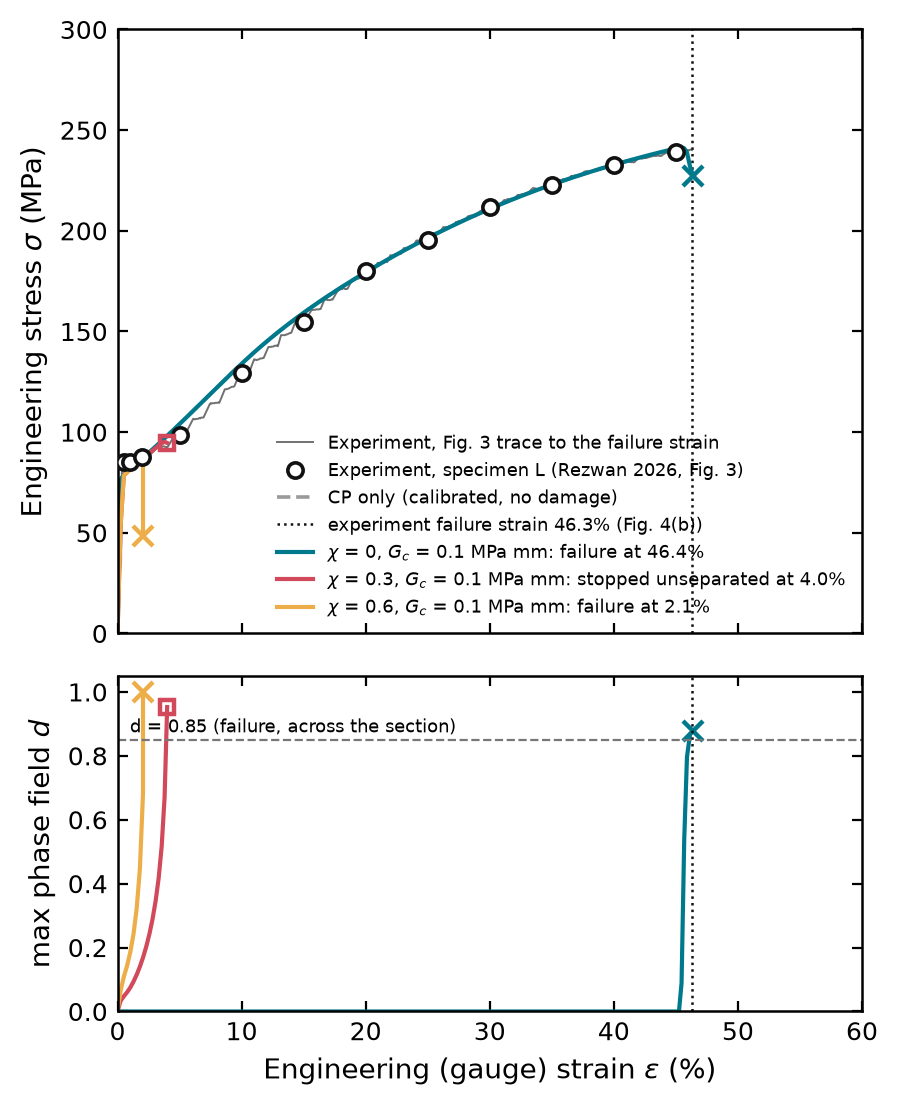
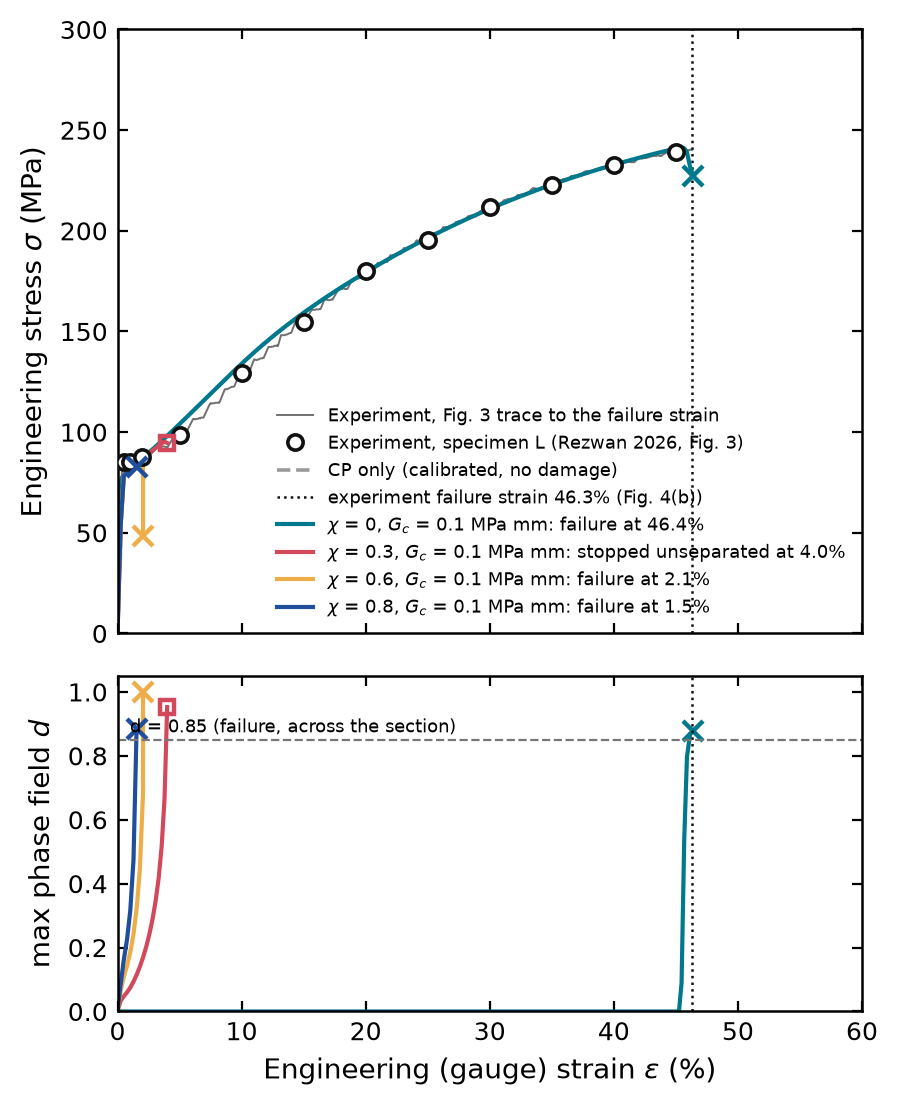
Ni chi sweep complete: chi 0.8 (40 GB rerun) cracks the fillet at 1.5%; Fig. 21 and report §7.5; ledger, notebook

Changed region(s): [[0.3118, 0.3689, 0.9354, 0.5533], [0.1247, 0.6456, 0.1871, 0.8915], [0.1247, 0.3996, 0.1559, 0.5226]]

diff --git a/docs/run_ledger.md b/docs/run_ledger.md
@@ -101,7 +101,7 @@ and what it returned in one line.
 | ni-cal-h020-gn2-k1-cgroup | 2026-10-18 13:00-17:14 | `results/ni_study/cal_h020/gn2/k1_p/specimen.i` | `ni_specimen.py run`, `curve` (cgroup cap) | be71f84 / PINNACLE 9f31bb0 | rocm / 2 threads, 16 GB resident cap | 4.2 h | cutback budget spent at step 231 (43.0% gauge); BE fallback at step 234 -> 16 GB in 17 s -> oom-kill (exit -9). Curve to 43.0% kept (author); GN summary unchanged | k_m OAT curve | 12 §5.1 |
 | ni-mesh-L1-h020set | 2026-10-18 08:35 - 2026-10-19 04:14 (h010 curve end) | `decks/ni/cp/h020/mesh_L1.i` (h040, h010, h020z2; h020 = calibrated run) | `ni_study.py` | study / PINNACLE 9f31bb0 | rocm / 2 + 8 + 4 threads, address-space caps 16 / 24 / 16 GB | h040 done; h010 ~1 day | h040 finished. h020z2 VOID: hit the cap at step 36 in tangent assembly, every retry failed (kept in `h020z2/failed_ascap/`). h010 curve to 47.1% gauge (budget spent at step 243, 23 h, 11 GB resident; process left running for its field snapshots). Results docs/12 §5.2 | docs/12 §5, §5.1 | 12 §5 |
 | ni-mesh-L1-h020z2-cgroup | 2026-10-18 13:00-21:17 | `results/ni_study/mesh_study/L1_h020set/h020z2/specimen.i` | `ni_specimen.py run`, `curve` (cgroup cap) | be71f84 / PINNACLE 9f31bb0 | rocm / 4 threads, 16 GB resident cap | 8.3 h | cutback budget spent at step 226 (44.0% gauge, 238 converged steps); BE fallback -> oom-kill (exit -9). Curve to 44.0% | two-layer h020 of the mesh study | 12 §5.1 |
-| ni-pfd-cap40-reruns | 2026-10-23 23:00 - (running) | `decks/ni/pfd/wc75_gc30_chi0.55_cap40_L1_h020.i`, `wc75_gc0.1_chi0.8_cap40_L1_h020.i` (base `base_L1_h020_cap40.i`) | `ni_pfd_calibrate.py` (one run each) -> `ni_specimen.py` | study / PINNACLE e7fd0d2 | rocm / 2 x 2 threads, 40 GB resident cap each | - | - | reruns of the two runs the 16 GB cap killed in the CP fallback (check W_c 75 / G_c 30 / chi 0.55; chi sweep 0.8) | 12 §6.4 |
+| ni-pfd-cap40-reruns | 2026-10-23 23:00 - (check running) | `decks/ni/pfd/wc75_gc30_chi0.55_cap40_L1_h020.i`, `wc75_gc0.1_chi0.8_cap40_L1_h020.i` (base `base_L1_h020_cap40.i`) | `ni_pfd_calibrate.py` (one run each) -> `ni_specimen.py` | study / PINNACLE e7fd0d2 | rocm / 2 x 2 threads, 40 GB resident cap each | chi 0.8: 35 min | chi 0.8 separated at 1.5% at -0.04 of the gage (fillet) | reruns of the two runs the 16 GB cap killed in the CP fallback (check W_c 75 / G_c 30 / chi 0.55; chi sweep 0.8) | 12 §6.4 |
 | ni-pfd-check-wc75-gc30-chi055 | 2026-10-23 14:40-18:10 | `decks/ni/pfd/wc75_gc30_chi0.55_L1_h020.i` (l0 0.6, W_c 75, G_c 30, chi 0.55) | `ni_pfd_calibrate.py` (one run) -> `ni_specimen.py` | study / PINNACLE e7fd0d2 | rocm / 2 threads, 16 GB resident cap | 3.5 h | oom-killed (16 GB cap) at 14.9% in the CP backward-Euler fallback's sub-stepping, max d 0.011: no result; rerun as -cap40 | quick check (author 2026-10-23, not for reporting): a mixed driving force at a large G_c | 12 §6.4 |
 | ni-pfd-chi-sweep-wc75 | 2026-10-23 11:30-11:41 | `decks/ni/pfd/wc75_gc0.1_chi{0.3,0.6,0.8}_L1_h020.i` (l0 0.6, W_c 75, G_c 0.1, chi 0.3 / 0.6 / 0.8) | `ni_pfd_calibrate.py` (one run each) -> `ni_specimen.py` | study / PINNACLE e7fd0d2 | rocm / 3 x 2 threads, 16 GB resident cap each | 0.3-1 h (fillet cracks) | chi 0.3 died at 4.0% (fillet, max d 0.95); chi 0.6 separated at 2.1% in the fillet; chi 0.8 oom-killed at 1.5% in the CP fallback (rerun as -cap40) | does a growing elastic contribution move the crack from mid-gage toward the fillets? (author 2026-10-23) | 12 §6.4 |
 | ni-pfd-wc-chi0-L1-h020 | 2026-10-22 07:20 - 2026-10-23 13:30 | `decks/ni/pfd/wc{55,65,75}_chi0_L1_h020.i` (l0 0.6, chi 0, W_c 55 / 65 / 75, first G_c 4/16, 2/8, 0.3/1.2) | `ni_pfd_calibrate.py` -> `ni_specimen.py` (curve: mechanics_failure_cut rule) | study / PINNACLE e7fd0d2 | rocm / 6 x 2 threads, 16 GB resident cap each | 5-10 h per run, 14 runs | calibrated: W_c 55 -> G_c 3.255 (0.458, zone 0.39, 55 deg); 65 -> 1.384 (0.459, 0.41, 58 deg); 75 -> 0.1 (0.464 by the load-drop rule, 0.38; W_c 75 driver stopped after G_c 0.1, its G_c 0.033 run 0.460). Curves on the experiment to 45%, d = 0 to the onset | W_c stage, second round: purely ductile driving force (author's go-ahead 2026-10-22) | 12 §6.4 |

diff --git a/docs/reports/ni_single_crystal_pinnacle_benchmark_report.md b/docs/reports/ni_single_crystal_pinnacle_benchmark_report.md
@@ -1028,15 +1028,15 @@ measured station.
 At the carried pair ($W_c$ 75, $G_c$ 0.1) the elastic prefactor was raised
 to 0.3, 0.6 and 0.8 to see whether a growing elastic share moves the crack
 (`decks/ni/pfd/wc75_gc0.1_chi*_L1_h020.i`). It does not move it along the
-gage; it moves it to the fillet outright: $\chi = 0.6$ separated at 2.1%
-strain at -0.06 of the gage, $\chi = 0.3$ lost its mechanics at 4.0% with
-$d = 0.95$ there, as the AT2 strength of 33 to 54 MPa at $G_c/\ell_0 =
-0.17$ MPa predicts ($\chi = 0.8$ is being rerun; its first run was killed
-by the memory cap before the fillet cracked). At the $G_c$ a late ductile
+gage; it moves it to the fillet outright: $\chi = 0.8$ separated at 1.5%
+strain at -0.04 of the gage, $\chi = 0.6$ at 2.1% at -0.06, and $\chi =
+0.3$ lost its mechanics at 4.0% with $d = 0.95$ there, as the AT2 strength
+of 33 to 54 MPa at $G_c/\ell_0 = 0.17$ MPa predicts: the larger the
+elastic share, the earlier the fillet cracks. At the $G_c$ a late ductile
 onset needs, the driving force has to be purely ductile.
 
 **Figure 21.** The elastic share at the carried pair: curves and maximum
-phase field for $\chi$ = 0, 0.3 and 0.6.
+phase field for $\chi$ = 0, 0.3, 0.6 and 0.8.
 
 ![chi sweep](../../figures/ni/pfd/curves_L1_chi_sweep.png)
 

diff --git a/docs/12_ni_study.md b/docs/12_ni_study.md
@@ -769,3 +769,7 @@ calibrations compared in nature and value (Table 9), 7.5 the chi sweep (Fig. 21)
 with the experiment-only panel (`ni_fig5_panels/<spec>_exp.png`); the W_c = 0 round-2 and the
 round-1 figures kept as records. `tanne-2018-crack` added to the bibliography (AT2 strength).
 
+chi 0.8 rerun (40 GB cap, 2026-10-23 23:30): separated at 1.5% at -0.04 of the gage (fillet), peak
+83 MPa. The chi sweep is complete: 0.8 / 0.6 / 0.3 crack the fillet at 1.5 / 2.1 / 4.0%, earlier
+the larger the elastic share. Report §7.5 and Fig. 21 updated. The chi 0.55 check runs on.
+
